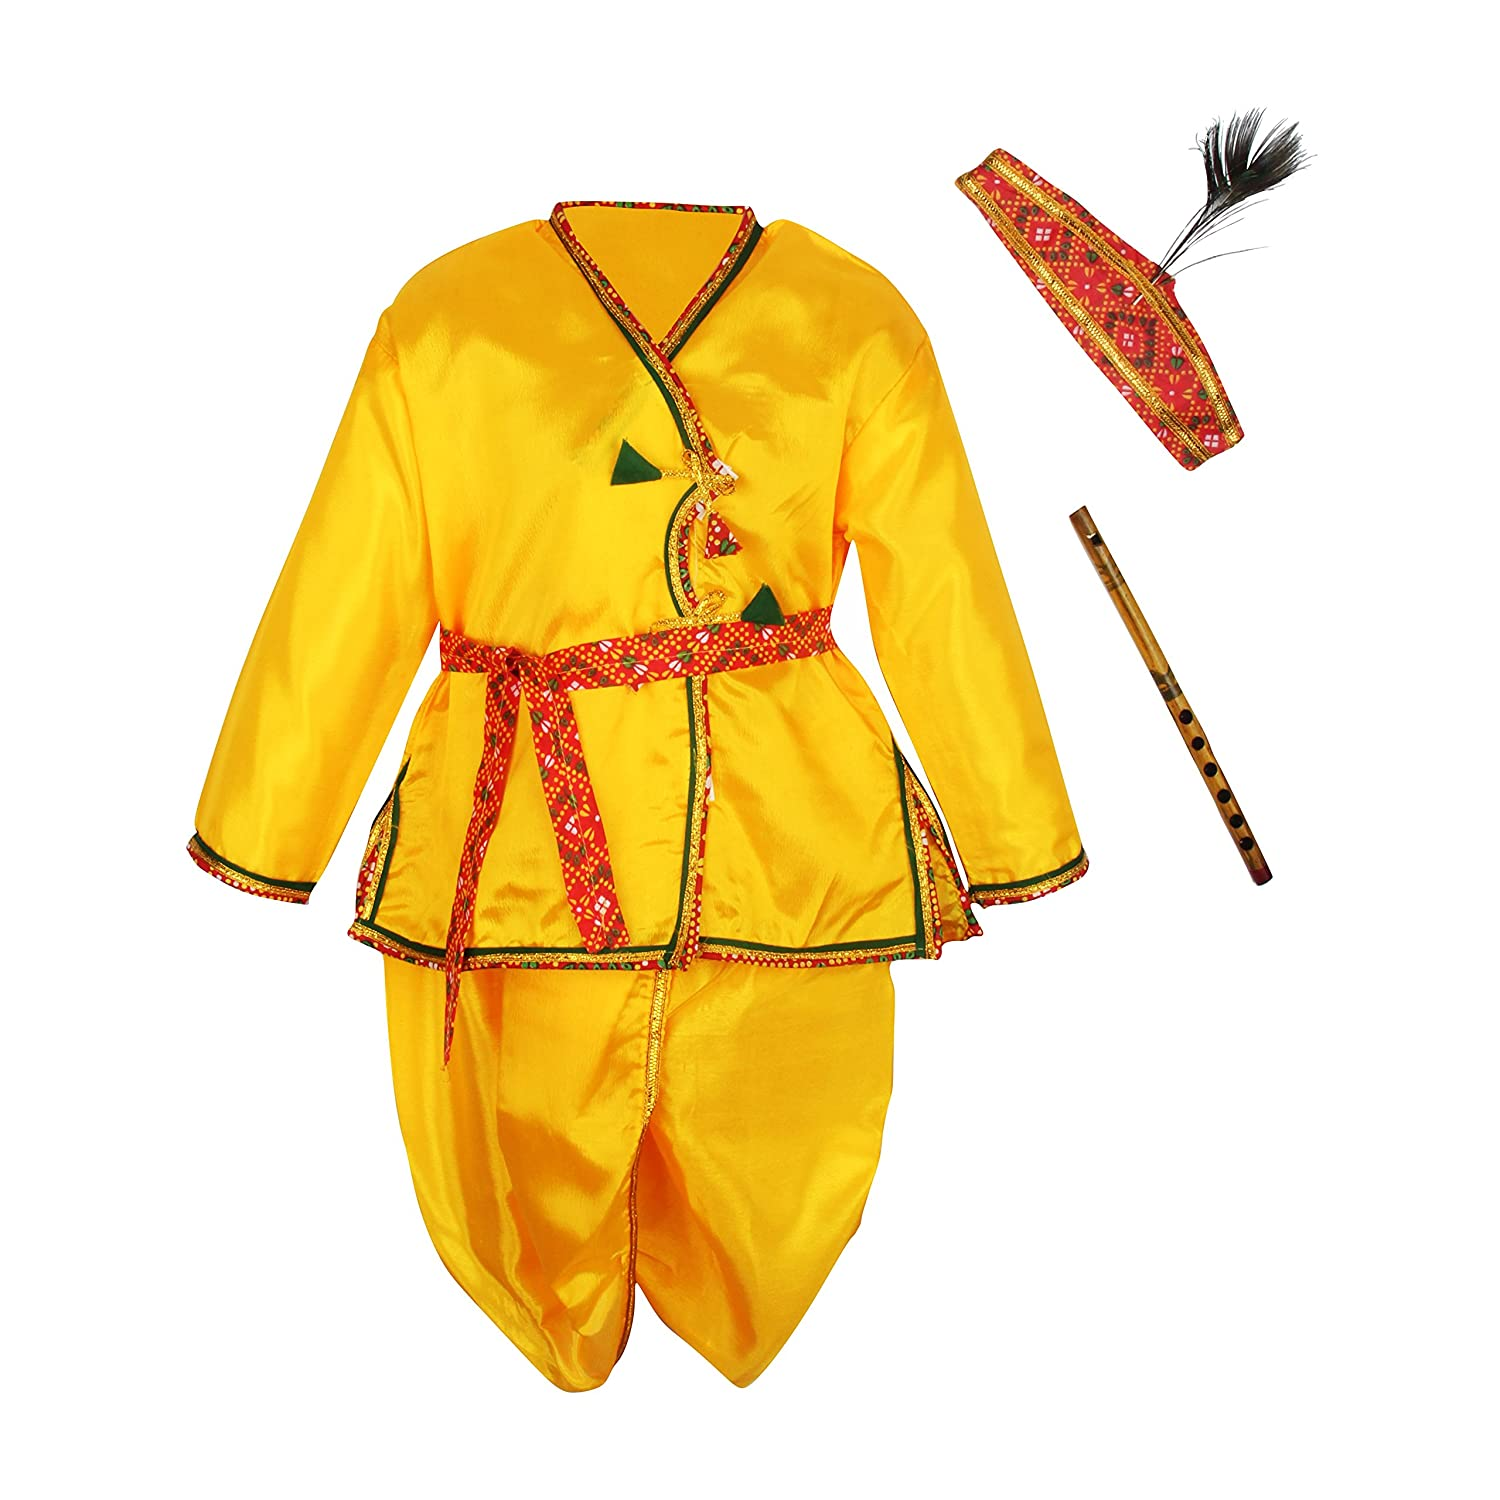
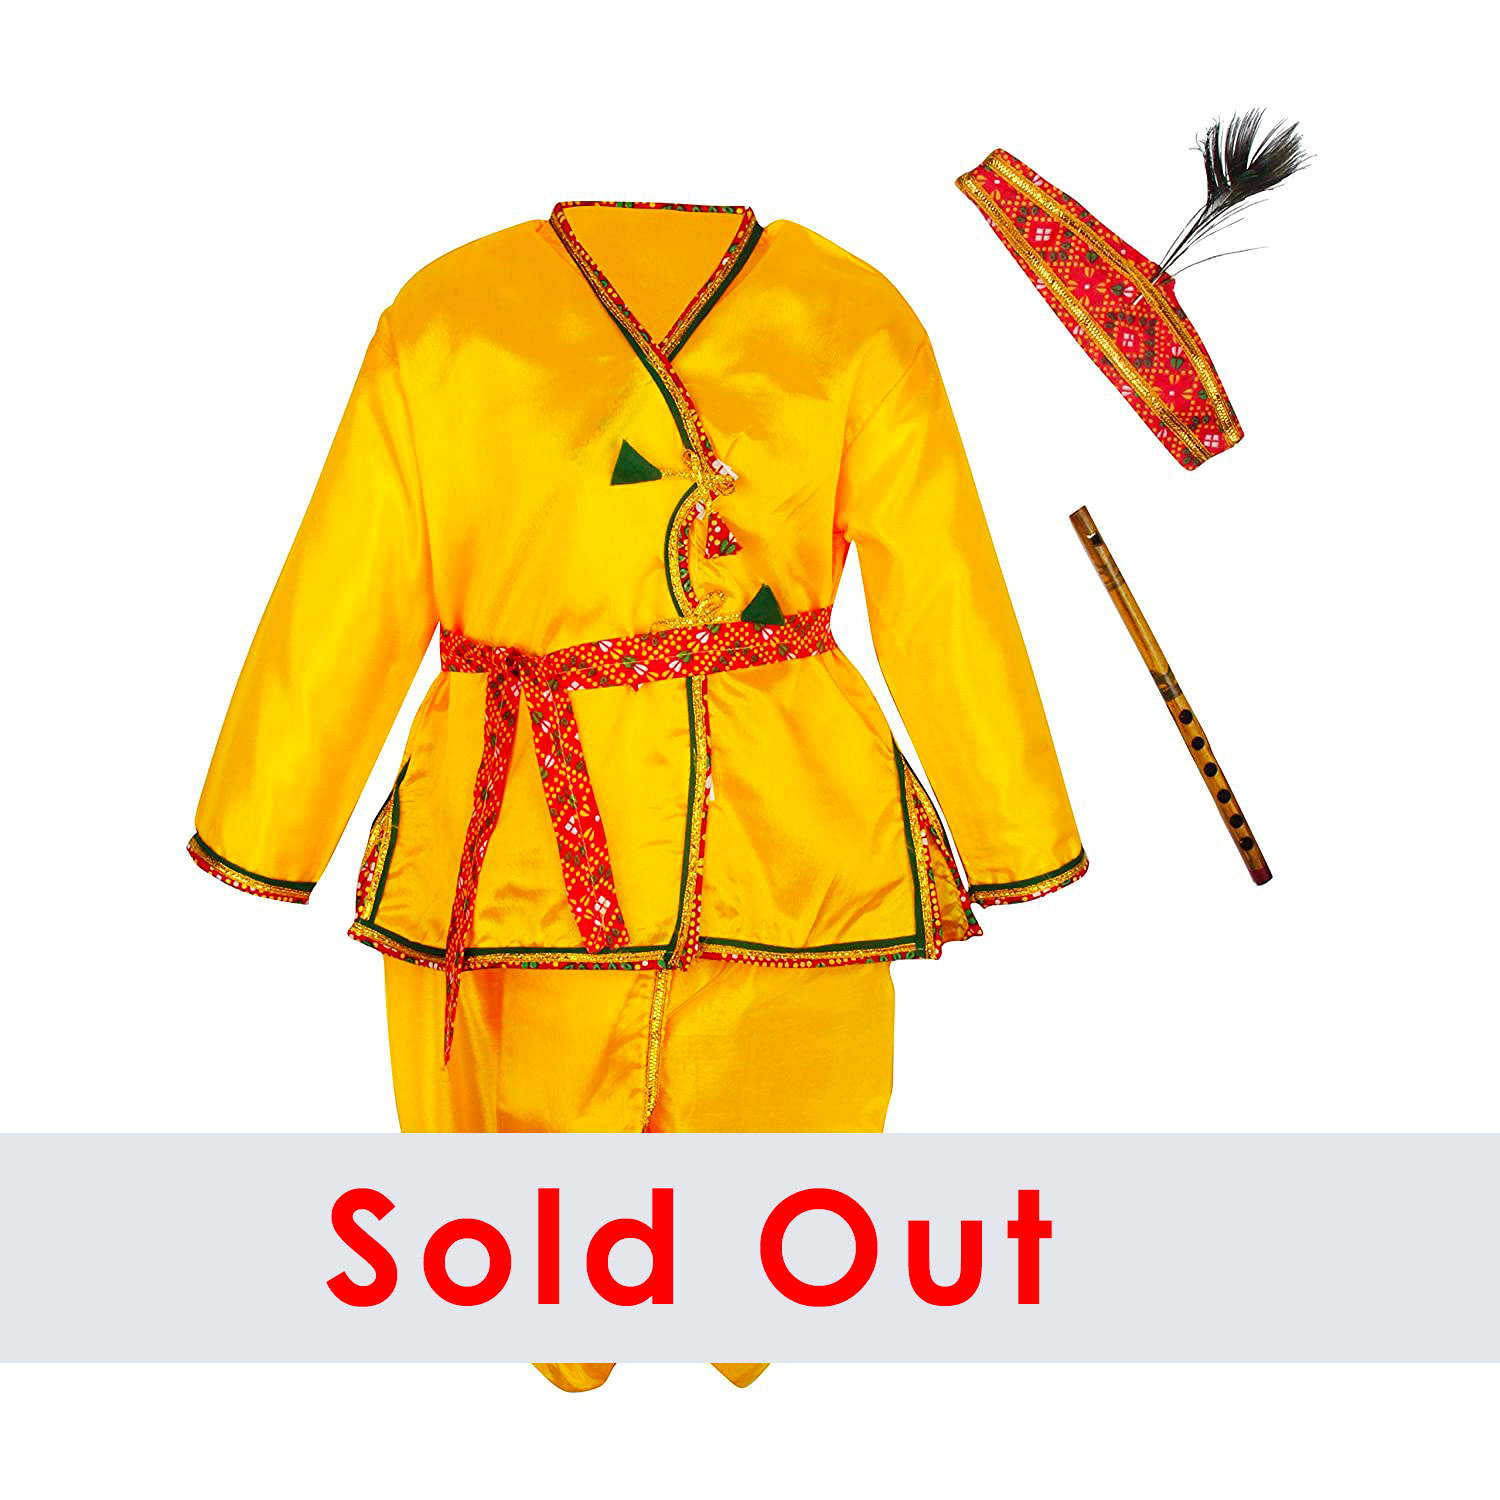
update out of stock product

diff --git a/src/templates/products-page.js b/src/templates/products-page.js
@@ -168,7 +168,7 @@ export default function ProductPage({ data }) {
                         <p>Items Included in the Package</p>
                         <div>{data.productsCsv.packaging}</div>
                     </div>
-                    <button className="btn bg-green-500 mt-4 snipcart-add-item p-4 rounded text-white"
+                    <button className={`btn bg-green-500 mt-4 snipcart-add-item p-4 rounded text-white ${data.productsCsv.stock == 0 ? 'hidden': ''}`}
                             data-item-id={data.productsCsv.id}
                             data-item-price={data.productsCsv.discountedPrice}
                             data-item-url={`https://bownbee.ca/${data.productsCsv.productCategory}/${data.productsCsv.fields.slug}`}
